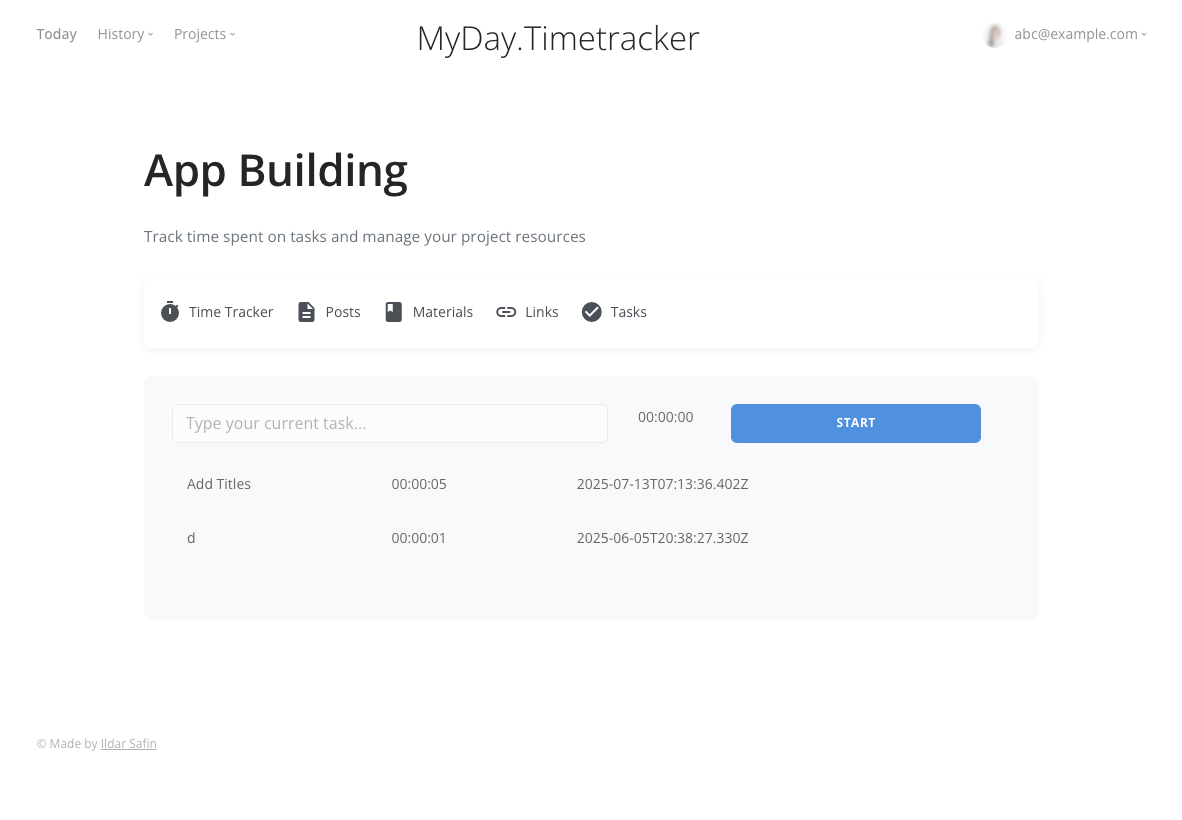
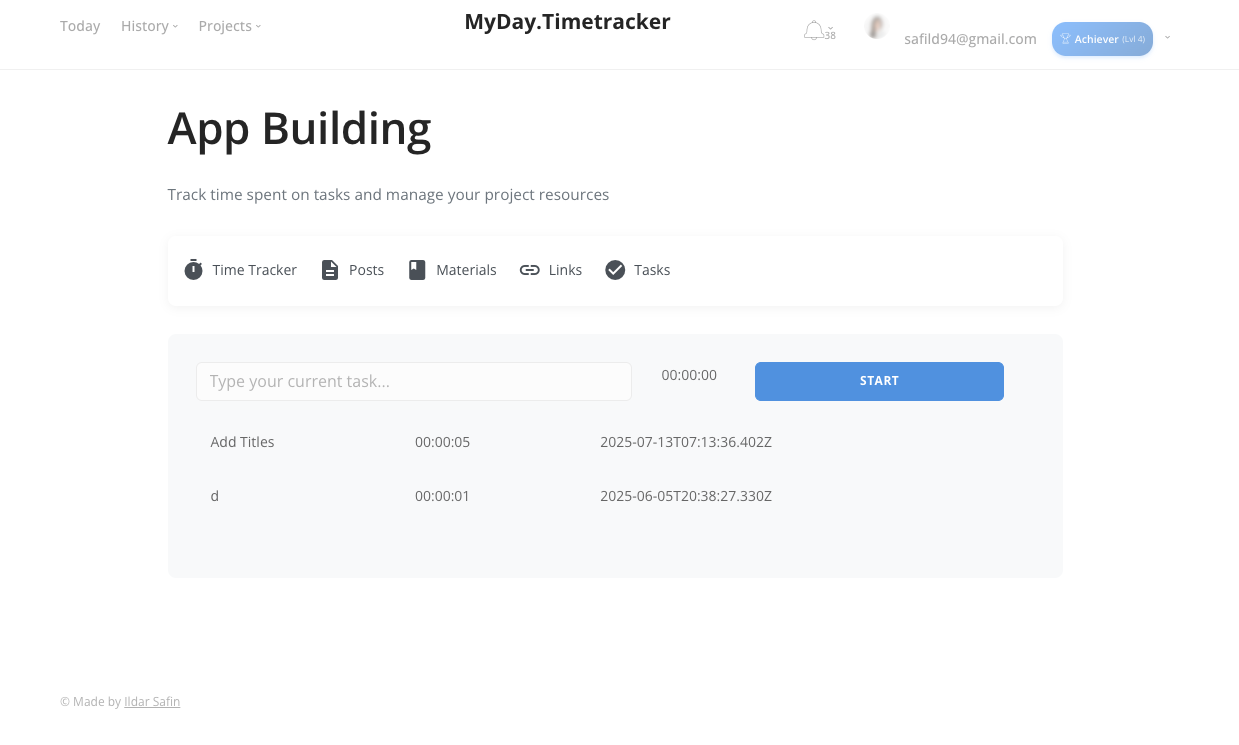
Update landing

diff --git a/app/assets/stylesheets/landing.scss b/app/assets/stylesheets/landing.scss
@@ -7,14 +7,40 @@
 }
 
 .landing-title {
-  font-size: 3rem;
-  font-weight: 700;
+  font-size: 3.5rem;
+  font-weight: 800;
   margin-bottom: 1.5rem;
-  color: #333;
+  letter-spacing: -0.02em;
+}
+
+.bg-dark {
+  background-color: #212529 !important;
+}
+
+.opacity-75 {
+  opacity: 0.75;
 }
 
 .landing-cta {
   margin-top: 2rem;
+  .btn-primary {
+    background-color: #007bff;
+    border-color: #007bff;
+    box-shadow: 0 4px 14px 0 rgba(0,123,255,0.39);
+    &:hover {
+      background-color: #0069d9;
+      transform: translateY(-1px);
+      box-shadow: 0 6px 20px rgba(0,123,255,0.23);
+    }
+  }
+  .btn-outline-primary {
+    color: #fff;
+    border-color: #fff;
+    &:hover {
+      background-color: #fff;
+      color: #007bff;
+    }
+  }
 }
 
 /* Section Styles */
@@ -43,10 +69,14 @@
   padding: 2rem;
   margin-bottom: 2rem;
   border-radius: 8px;
+  background-color: #f8f9fa;
+  border: 1px solid #e9ecef;
+  transition: transform 0.3s ease, box-shadow 0.3s ease;
 }
 
 .feature-box:hover {
-  /* Simple hover effect without shadows or transforms */
+  transform: translateY(-5px);
+  box-shadow: 0 10px 20px rgba(0,0,0,0.05);
 }
 
 .feature-icon {
@@ -98,6 +128,8 @@
   padding: 5rem 0;
   margin-top: 2rem;
   margin-bottom: 2rem;
+  background-color: #f8f9fa;
+  border-radius: 12px;
 }
 
 .cta-content {

diff --git a/app/assets/stylesheets/custom.scss b/app/assets/stylesheets/custom.scss
@@ -66,29 +66,16 @@
   gap: 8px;
 }
 
-.imagebg {
-  background-image: asset-url('productivity.png') !important;
+.imagebg-hero {
+  background-image: linear-gradient(rgba(0, 0, 0, 0.5), rgba(0, 0, 0, 0.5)), asset-url('productivity.png') !important;
   background-size: cover !important;
   background-position: center !important;
   background-repeat: no-repeat !important;
-  min-height: 100vh; /* Ensure minimum height is full viewport */
 }
 
 @media (max-width: 767px) {
-  .imagebg {
+  .imagebg-hero {
     min-height: 100vh;
-    height: 100vh;
-    position: fixed; /* Fix the background to cover the entire screen */
-    width: 100%;
-    top: 0;
-    left: 0;
-    z-index: -1; /* Place it behind the content */
-  }
-
-  /* Ensure the content container has proper spacing */
-  .main-container {
-    position: relative;
-    z-index: 1;
   }
 }
 

diff --git a/README.md b/README.md
@@ -16,8 +16,9 @@ Features:
 
 ![Screenshot](/app/assets/images/dashboard_page.png)
 
+![Screenshot](/app/assets/images/achievements.png)
 
-![Screenshot](/app/assets/images/plot_energy_level.png)
+![Screenshot](/app/assets/images/project.png)
 
 Roadmap:
 ---------
